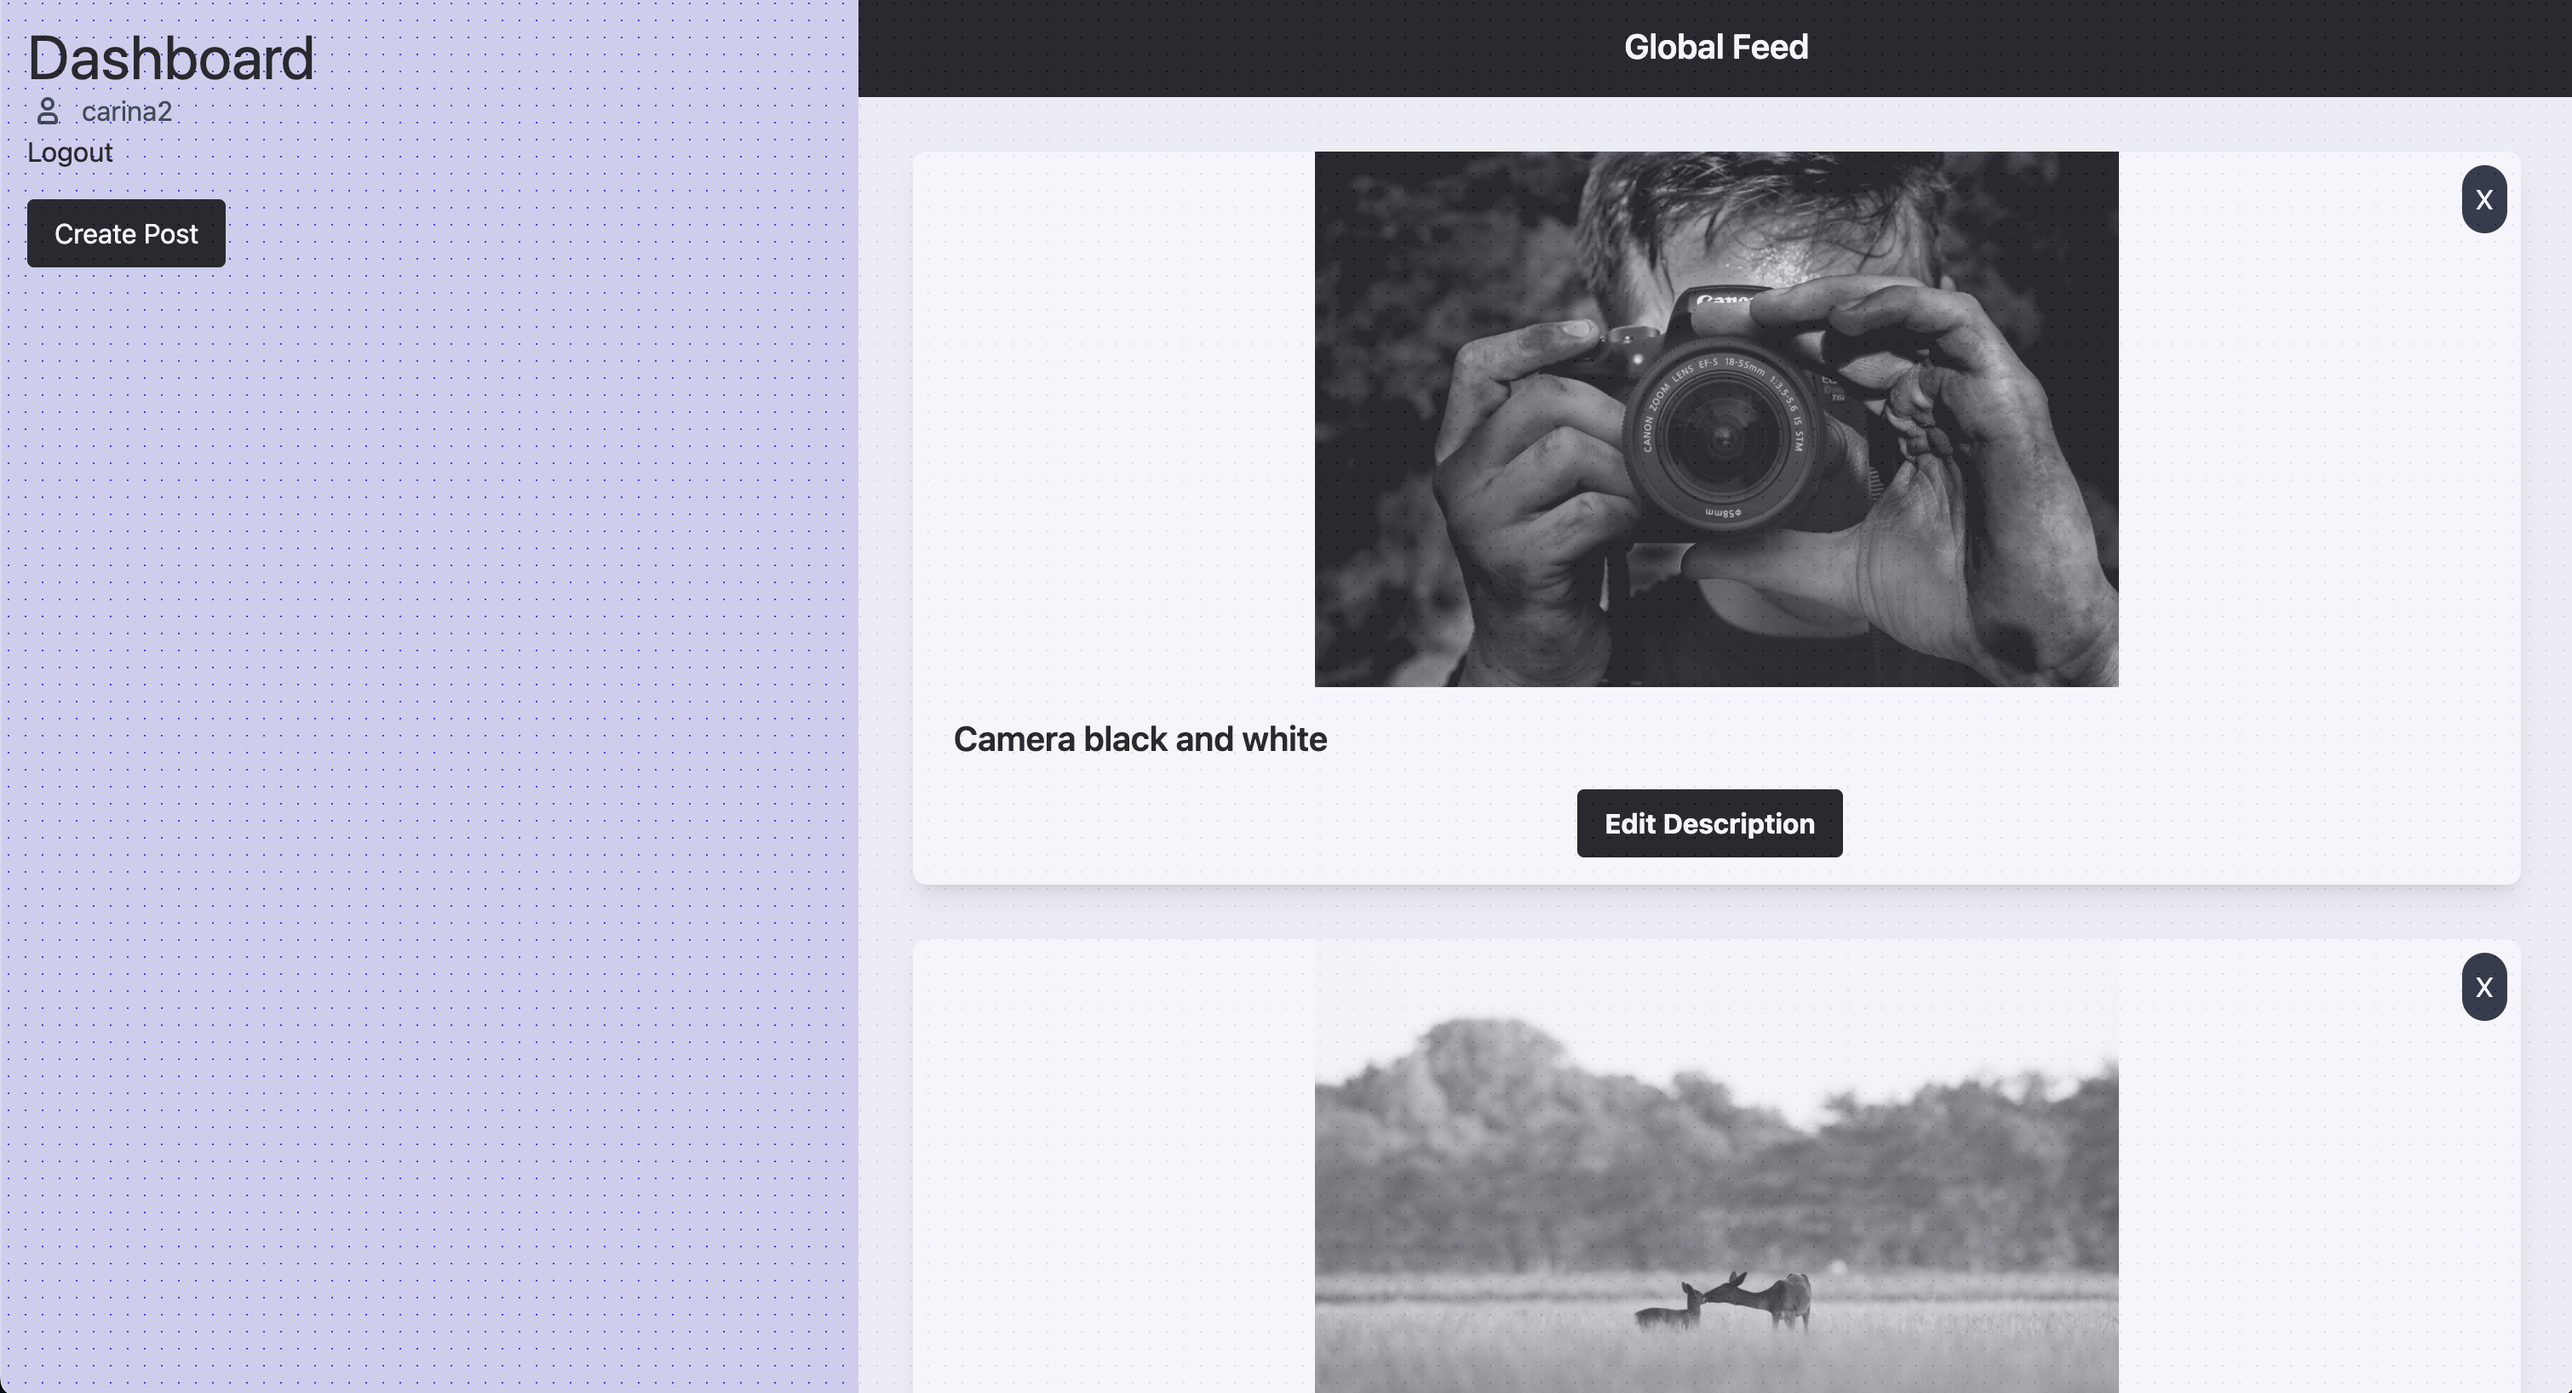
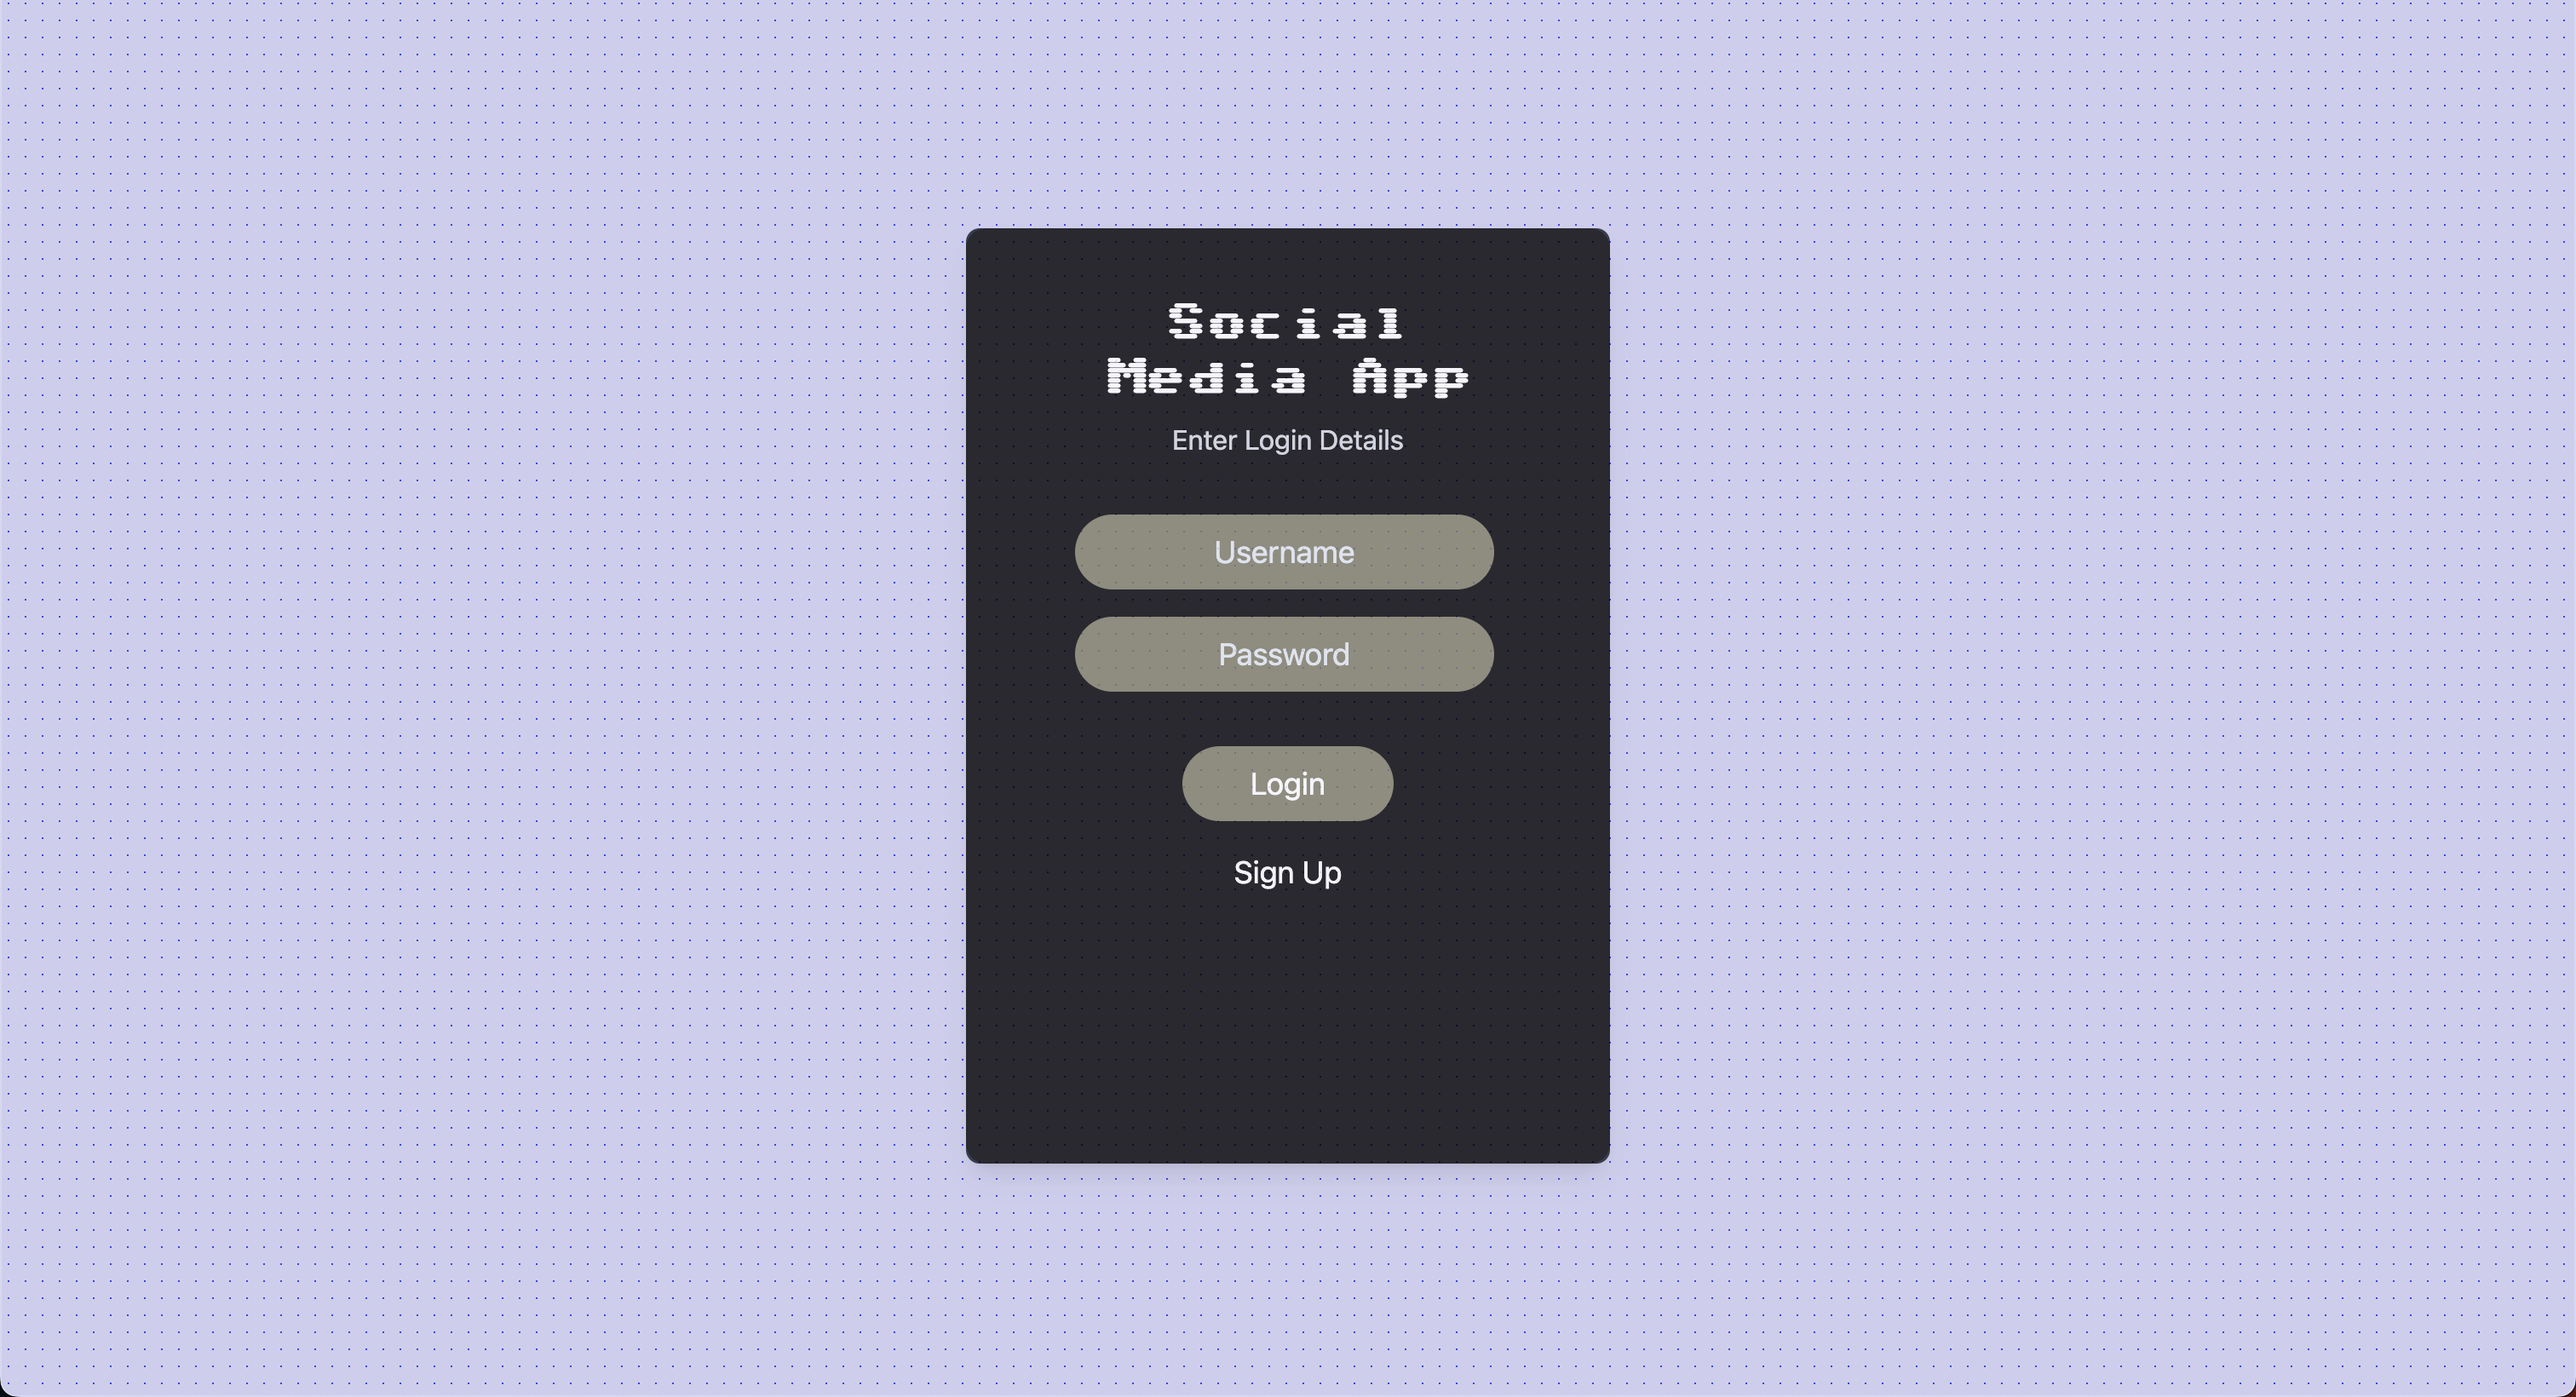
style updates

diff --git a/client/src/components/Login.jsx b/client/src/components/Login.jsx
@@ -30,20 +30,20 @@ const Login = () => {
 
   return (
     <div className="flex flex-column flex-wrap w-1/4 h-2/3  bg-gray-900 bg-cover bg-no-repeat rounded-lg">
-      <div className="rounded-xl bg-gray-800 bg-opacity-50 px-16 py-10 shadow-lg backdrop-blur-md max-sm:px-8">
+      <div className="rounded-xl bg-black px-16 py-10 shadow-lg backdrop-blur-md max-sm:px-8">
         <div className="text-white">
           {showRegister ? (
             <Register /> // Display Register component if showRegister is true
           ) : (
             <>
               <div className="mb-8 flex flex-col items-center">
-                <h1 className="mb-2 text-2xl">Social Media App</h1>
+                <h1 className="mb-2 text-2xl text-center">Social Media App</h1>
                 <span className="text-gray-300">Enter Login Details</span>
               </div>
               <form>
                 <div className="mb-4 text-lg">
                   <input
-                    className="rounded-3xl border-none bg-yellow-400 bg-opacity-50 px-6 py-2 text-center text-inherit placeholder-slate-200 shadow-lg outline-none backdrop-blur-md"
+                    className="rounded-3xl border-none bg-yellow-100 bg-opacity-50 px-6 py-2 text-center text-inherit placeholder-slate-200 shadow-lg outline-none backdrop-blur-md"
                     type="text"
                     placeholder="Username"
                     value={username}
@@ -52,7 +52,7 @@ const Login = () => {
                 </div>
                 <div className="mb-4 text-lg">
                   <input
-                    className="rounded-3xl border-none bg-yellow-400 bg-opacity-50 px-6 py-2 text-center text-inherit placeholder-slate-200 shadow-lg outline-none backdrop-blur-md"
+                    className="rounded-3xl border-none bg-yellow-100 bg-opacity-50 px-6 py-2 text-center text-inherit placeholder-slate-200 shadow-lg outline-none backdrop-blur-md"
                     type="password"
                     placeholder="Password"
                     value={password}
@@ -65,7 +65,7 @@ const Login = () => {
                   <button
                     onClick={handleLogin}
                     type="submit"
-                    className="rounded-3xl bg-yellow-400 bg-opacity-50 px-10 py-2 text-white shadow-xl backdrop-blur-md transition-colors duration-300 hover:bg-yellow-600"
+                    className="rounded-3xl bg-yellow-100 bg-opacity-50 px-10 py-2 text-white shadow-xl backdrop-blur-md transition-colors duration-300 hover:bg-yellow-600"
                   >
                     Login
                   </button>

diff --git a/client/src/components/Register.jsx b/client/src/components/Register.jsx
@@ -19,36 +19,32 @@ const RegistrationForm = () => {
   return (
     <div>
       <div className="mb-8 flex flex-col items-center">
-        <h1 className="mb-2 text-2xl">Social Media App</h1>
+        <h1 className="mb-2 text-2xl text-center">Social Media App</h1>
         <span className="text-gray-300">Enter Registration Details</span>
       </div>
       <div className="mb-4 text-lg">
-        <label className="text-white">
-          Username:
-          <input
-            className="rounded-3xl border-none bg-yellow-400 bg-opacity-50 px-6 py-2 text-center text-inherit placeholder-slate-200 shadow-lg outline-none backdrop-blur-md"
-            type="text"
-            value={username}
-            onChange={(e) => setUsername(e.target.value)}
-          />
-        </label>
+        <input
+          className="rounded-3xl border-none bg-yellow-100 bg-opacity-50 px-6 py-2 text-center text-inherit placeholder-slate-200 shadow-lg outline-none backdrop-blur-md"
+          type="text"
+          value={username}
+          placeholder="Username"
+          onChange={(e) => setUsername(e.target.value)}
+        />
       </div>
       <div className="mb-4 text-lg">
-        <label className="text-white">
-          Password:
-          <input
-            className="rounded-3xl border-none bg-yellow-400 bg-opacity-50 px-6 py-2 text-center text-inherit placeholder-slate-200 shadow-lg outline-none backdrop-blur-md"
-            type="password"
-            value={password}
-            onChange={(e) => setPassword(e.target.value)}
-          />
-        </label>
+        <input
+          className="rounded-3xl border-none bg-yellow-100 bg-opacity-50 px-6 py-2 text-center text-inherit placeholder-slate-200 shadow-lg outline-none backdrop-blur-md"
+          type="password"
+          value={password}
+          placeholder="Password"
+          onChange={(e) => setPassword(e.target.value)}
+        />
       </div>
       {error && <p className="text-red-500">{error}</p>}
       <div className="mt-8 flex justify-center text-lg text-black">
         <button
           onClick={handleRegister}
-          className="rounded-3xl bg-yellow-400 bg-opacity-50 px-10 py-2 text-white shadow-xl backdrop-blur-md transition-colors duration-300 hover:bg-yellow-600"
+          className="rounded-3xl bg-yellow-100 bg-opacity-50 px-10 py-2 text-white shadow-xl backdrop-blur-md transition-colors duration-300 hover:bg-yellow-600"
         >
           Register
         </button>

diff --git a/client/src/components/Post.jsx b/client/src/components/Post.jsx
@@ -35,12 +35,12 @@ const Post = ({ post }) => {
       {post && (
         <div key={post._id}>
           <img
-            className="w-1/2 mx-auto object-contain"
+            className="mx-auto object-contain"
             src={createObjectURL(post.image)}
             alt="Post"
           />
           <button
-            className="absolute top-0 right-0 m-2 p-2 rounded-full bg-gray-900 text-white"
+            className="absolute top-0 right-0 m-2 p-2 rounded-full bg-black hover:bg-gray-700 text-white"
             onClick={handleDelete}
           >
             X
@@ -56,17 +56,17 @@ const Post = ({ post }) => {
             ) : (
               <h2 className="text-xl font-semibold">{post.description}</h2>
             )}
-            <div className="flex justify-center mt-4">
+            <div className="flex mt-4">
               {isEditing ? (
                 <button
-                  className="bg-blue-500 hover:bg-blue-700 text-white font-bold py-2 px-4 rounded mr-2"
+                  className="bg-black hover:bg-gray-700 text-white font-bold py-2 px-4 rounded mr-2"
                   onClick={handleEdit}
                 >
                   Save Changes
                 </button>
               ) : (
                 <button
-                  className="bg-black hover:bg-blue-700 text-white font-bold py-2 px-4 rounded mr-2"
+                  className="bg-black hover:bg-gray-700 text-white font-bold py-2 px-4 rounded mr-2"
                   onClick={() => setIsEditing(true)}
                 >
                   Edit Description

diff --git a/client/src/components/Header.jsx b/client/src/components/Header.jsx
@@ -12,10 +12,10 @@ const Header = () => {
   };
 
   return (
-    <header className="w-1/3 bg-pink max-h-screen fixed p-4">
+    <header className="md:w-1/3 bg-pink max-h-screen md:fixed p-4">
       <h1 className="text-4xl">Dashboard</h1>
       {userData && (
-        <div className="flex items-center">
+        <div className="md:flex items-center">
           <svg
             className="w-6 h-6 text-gray-800"
             aria-hidden="true"
@@ -29,7 +29,7 @@ const Header = () => {
               d="M7 17v1c0 .6.4 1 1 1h8c.6 0 1-.4 1-1v-1a3 3 0 0 0-3-3h-4a3 3 0 0 0-3 3Zm8-9a3 3 0 1 1-6 0 3 3 0 0 1 6 0Z"
             />
           </svg>
-          <p className="text-gray-800 ml-2">{userData.username}</p>
+          <p className="text-gray-800">{userData.username}</p>
         </div>
       )}
       <button onClick={handleLogout}>Logout</button>

diff --git a/client/src/components/PostBuilder.jsx b/client/src/components/PostBuilder.jsx
@@ -52,7 +52,7 @@ const PostBuilder = () => {
   return (
     <div className="relative my-4">
       <button
-        className="bg-black text-white px-4 py-2 rounded"
+        className="bg-black hover:bg-gray-700 text-white px-4 py-2 rounded"
         onClick={handleToggleExpansion}
       >
         {isExpanded ? "x" : "Create Post"}
@@ -88,7 +88,7 @@ const PostBuilder = () => {
             </div>
             <button
               type="submit"
-              className={`bg-black text-white px-4 py-2 rounded mt-2 mr-2 ${
+              className={`bg-black hover:bg-gray-700 text-white px-4 py-2 rounded mt-2 mr-2 ${
                 isPosting || !description || !image
                   ? "opacity-50 cursor-not-allowed"
                   : ""

diff --git a/client/src/components/PostFeed.jsx b/client/src/components/PostFeed.jsx
@@ -6,9 +6,11 @@ const PostFeed = () => {
   const { posts } = usePostData();
 
   return (
-    <div className="bg-gray-100 min-h-screen absolute right-0 w-2/3">
+    <div className="bg-gray-100 min-h-screen md:absolute md:right-0 md:w-2/3">
       <header className="sticky p-4 top-0 bg-black z-50 flex items-center justify-center">
-        <h2 className="text-xl text-white font-semibold ">Global Feed</h2>
+        <h2 className="text-4xl font-thin text-white font-semibold ">
+          Global Feed
+        </h2>
       </header>
       <div className="px-8">
         {posts.map((post) => (

diff --git a/client/src/index.css b/client/src/index.css
@@ -1,3 +1,5 @@
+@import url("https://fonts.googleapis.com/css2?family=Sixtyfour&display=swap");
+
 @tailwind base;
 @tailwind components;
 @tailwind utilities;
@@ -10,4 +12,8 @@ body {
   background-size: 10px 10px;
   background-blend-mode: multiply;
   max-height: 100vh;
+}
+
+h1 {
+  font-family: "Sixtyfour", sans-serif;
 }

diff --git a/client/src/pages/Dashboard.jsx b/client/src/pages/Dashboard.jsx
@@ -4,7 +4,7 @@ import Header from "../components/Header";
 
 const Dashboard = () => {
   return (
-    <div className="w-screen flex">
+    <div className="w-screen md:flex">
       <Header />
       <main>
         <PostFeed />

diff --git a/readme.md b/readme.md
@@ -1,6 +1,7 @@
 # MERN Stack Project with Local MongoDB
 
 ![Screenshot](example.png)
+![Screenshot](example2.png)
 
 ### Description
 
@@ -89,7 +90,7 @@ To run this project locally, follow these steps:
 - Build a Profile page where users can see only their posts.
 - Update Feed so that users can only edit their own posts.
 - Use react context for state management
-- Optimize for A11y and performance
+- Optimize for A11y and responsive design & performance
 - Implement a docker/ docker compose file
 - Connect to a MongoDB Atlas Cluster or AWS Cluster
 
